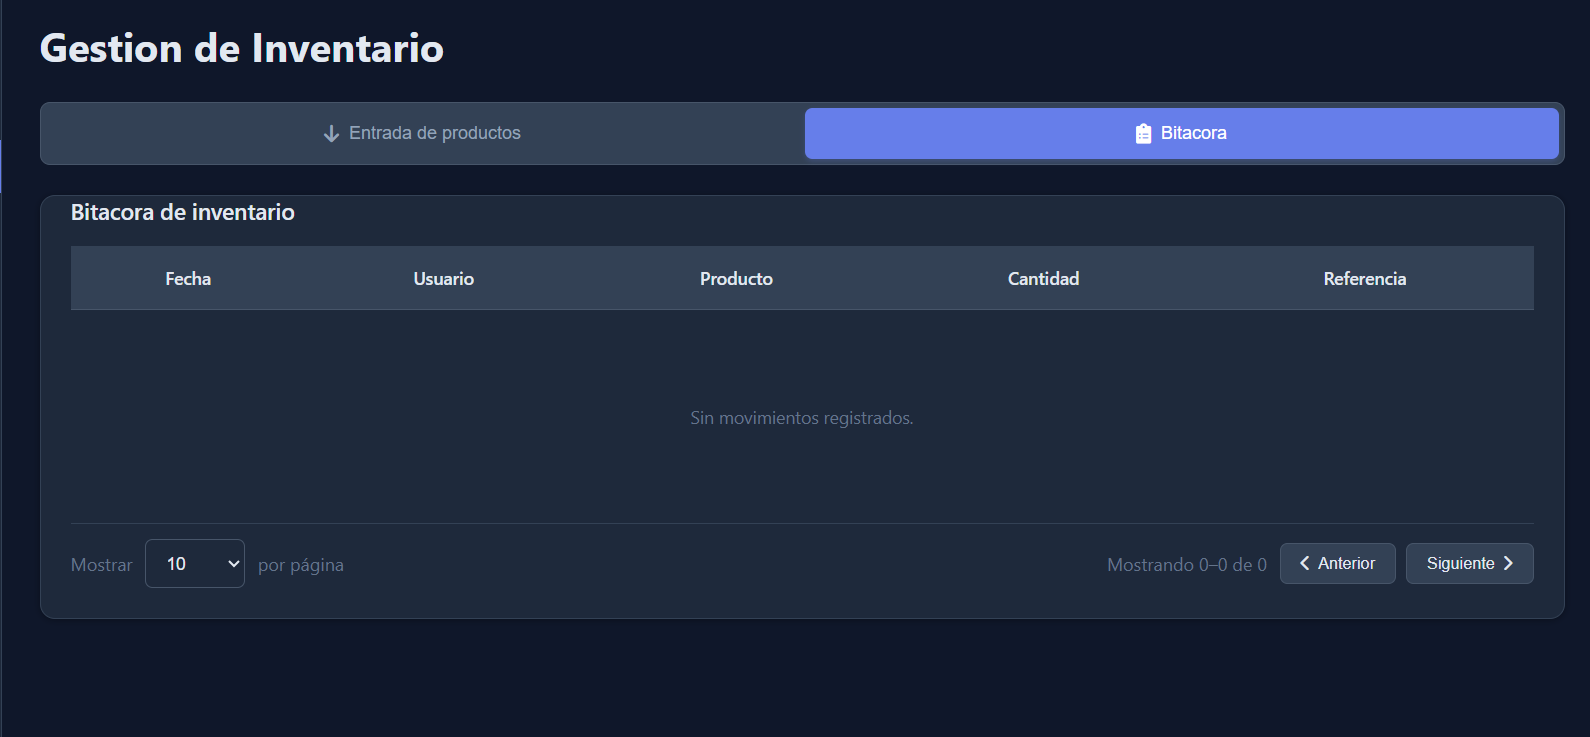
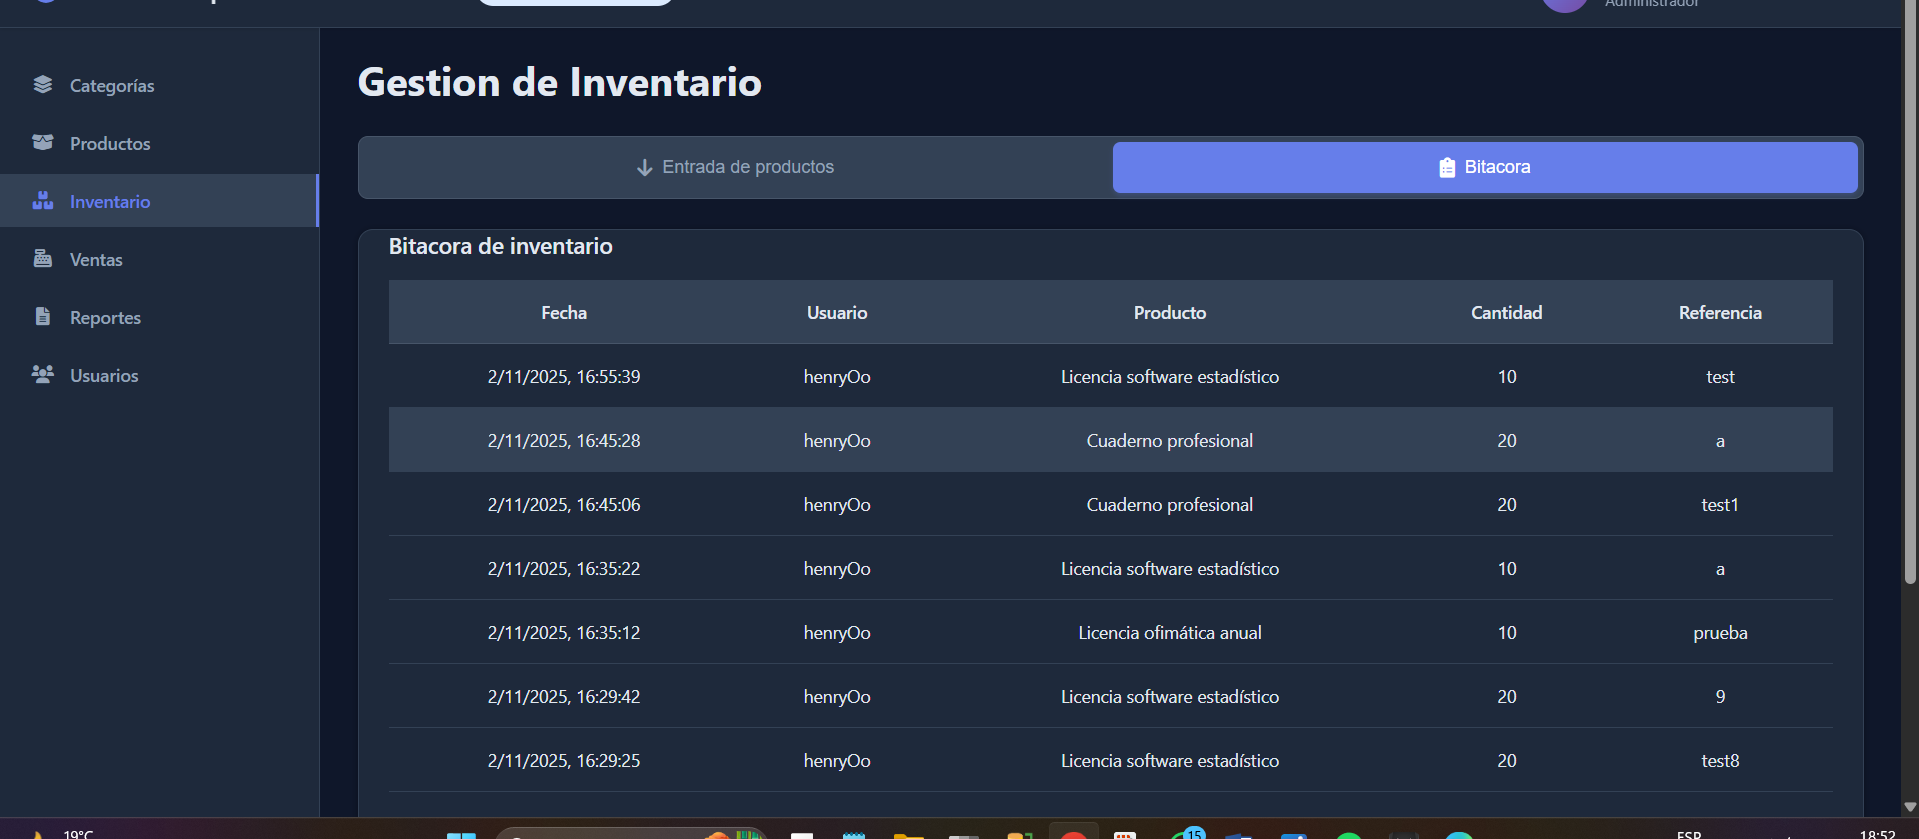
filtro xD

diff --git a/public/js/dashboard-app.js b/public/js/dashboard-app.js
@@ -1919,6 +1919,21 @@
       modalManager.open('inventoryMovementModal');
     });
 
+    // Abrir modal de filtros (solo UI; sin lógica de filtrado)
+    document.getElementById('inventoryFiltersBtn')?.addEventListener('click', () => {
+      const titleEl = document.getElementById('invFiltersTitle');
+      if (titleEl) titleEl.innerHTML = '<i class="fas fa-filter"></i> Filtros de Bitácora';
+      const boxEl = document.getElementById('invFiltersModalBox');
+      if (boxEl) {
+        boxEl.innerHTML = `
+          <div class="filter-form">
+            ${dateFilterHtml('fBitacoraDesde', 'fBitacoraHasta')}
+          </div>
+        `;
+      }
+      modalManager.open('inventoryFiltersModal');
+    });
+
     // Autocomplete producto usando lista de productos del dashboard
     const invInput = document.getElementById('invProdInput');
     const invResults = document.getElementById('invProdResults');
@@ -4502,7 +4517,7 @@ function initInventoryMovementsPagination() {
       '</div>',
       '<div id="invLogContent" class="bitacora-content">',
       '  <div class="panel-card">',
-      '    <div class="card-header"><h3>Bitacora de inventario</h3></div>',
+      '    <div class="card-header" style="display:flex; align-items:center; justify-content:space-between; gap:12px;"><h3>Bitacora de inventario</h3><button class="btn btn-secondary btn-sm" id="inventoryFiltersBtn" type="button"><i class="fas fa-filter"></i> Filtros</button></div>',
       '    <div class="table-responsive">',
       '      <table class="data-table" id="inventoryMovementsTable">',
       '        <thead><tr><th>Fecha</th><th>Usuario</th><th>Producto</th><th>Cantidad</th><th>Referencia</th></tr></thead>',
@@ -4519,6 +4534,24 @@ function initInventoryMovementsPagination() {
     ensureInventoryMovementsPaginationUI();
     initInventoryMovementsPagination();
     renderInventoryMovements();
+
+    // Botón "Filtros" en Bitácora: abre modal con rango de fechas (solo UI)
+    const invFiltersBtn = document.getElementById('inventoryFiltersBtn');
+    if (invFiltersBtn) {
+      invFiltersBtn.addEventListener('click', () => {
+        const titleEl = document.getElementById('invFiltersTitle');
+        if (titleEl) titleEl.innerHTML = '<i class="fas fa-filter"></i> Filtros de Bitácora';
+        const boxEl = document.getElementById('invFiltersModalBox');
+        if (boxEl) {
+          boxEl.innerHTML = `
+            <div class="filter-form">
+              ${dateFilterHtml('fBitacoraDesde', 'fBitacoraHasta')}
+            </div>
+          `;
+        }
+        modalManager.open('inventoryFiltersModal');
+      });
+    }
   }
 
   function setupInventoryTabs() {

diff --git a/public/dashboard.html b/public/dashboard.html
@@ -115,6 +115,9 @@
       <div class="stats-grid" id="inventoryStats"></div>
 
       <div class="panel-actions" style="display:flex; justify-content:flex-end; gap:8px; margin:8px 0 16px;">
+        <button class="btn btn-secondary btn-sm" id="inventoryFiltersBtn" type="button">
+          <i class="fas fa-filter"></i> Filtros
+        </button>
         <button class="btn btn-primary btn-sm" id="inventoryNewEntryBtn">
           <i class="fas fa-arrow-down"></i> Registrar entrada
         </button>
@@ -157,8 +160,11 @@
       </div>
 
       <div class="panel-card">
-        <div class="card-header">
+        <div class="card-header" style="display:flex; align-items:center; justify-content:space-between;">
           <h3>Bitácora de inventario</h3>
+          <button class="btn btn-secondary btn-sm" id="inventoryFiltersBtn" type="button">
+            <i class="fas fa-filter"></i> Filtros
+          </button>
         </div>
         <div class="table-responsive">
           <table class="data-table" id="inventoryMovementsTable" hidden>
@@ -583,6 +589,35 @@
       <div class="modal-footer">
         <button type="button" class="btn-primary" data-action="closeModal"
           data-modal="categoryDetailModal">Cerrar</button>
+      </div>
+    </div>
+  </div>
+
+  <!-- Modal: Filtros Bitácora de Inventario (UI solamente) -->
+  <div class="modal-overlay" id="inventoryFiltersModal" aria-hidden="true">
+    <div class="modal-container">
+      <div class="modal-header">
+        <h3 id="invFiltersTitle"><i class="fas fa-filter"></i> Filtros de Bitácora</h3>
+        <button class="modal-close" data-action="closeModal" data-modal="inventoryFiltersModal">
+          <i class="fas fa-times"></i>
+        </button>
+      </div>
+      <div class="modal-body">
+        <div id="invFiltersModalBox" class="filter-form">
+          <div class="form-row">
+            <div class="form-group">
+              <label>Desde</label>
+              <input type="date" id="fBitacoraDesde" class="filter-input" />
+            </div>
+            <div class="form-group">
+              <label>Hasta</label>
+              <input type="date" id="fBitacoraHasta" class="filter-input" />
+            </div>
+          </div>
+        </div>
+      </div>
+      <div class="modal-footer">
+        <button type="button" class="btn-secondary" data-action="closeModal" data-modal="inventoryFiltersModal">Cerrar</button>
       </div>
     </div>
   </div>
